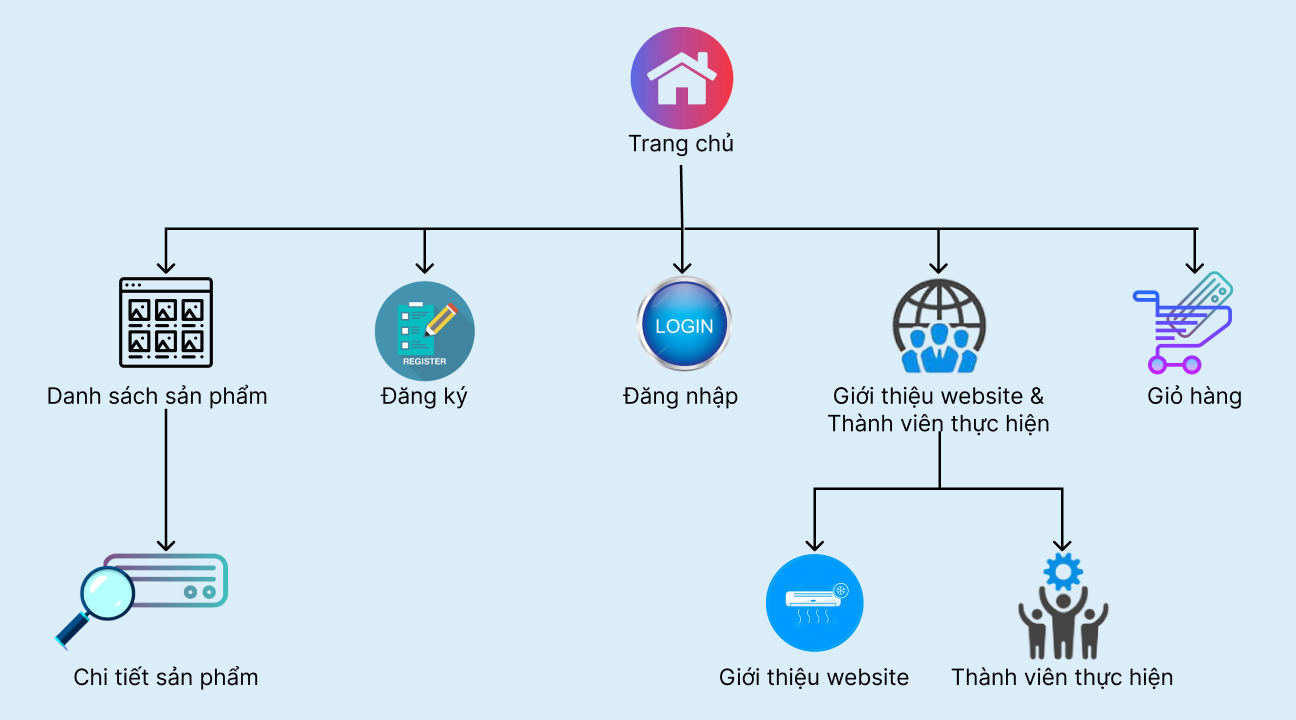
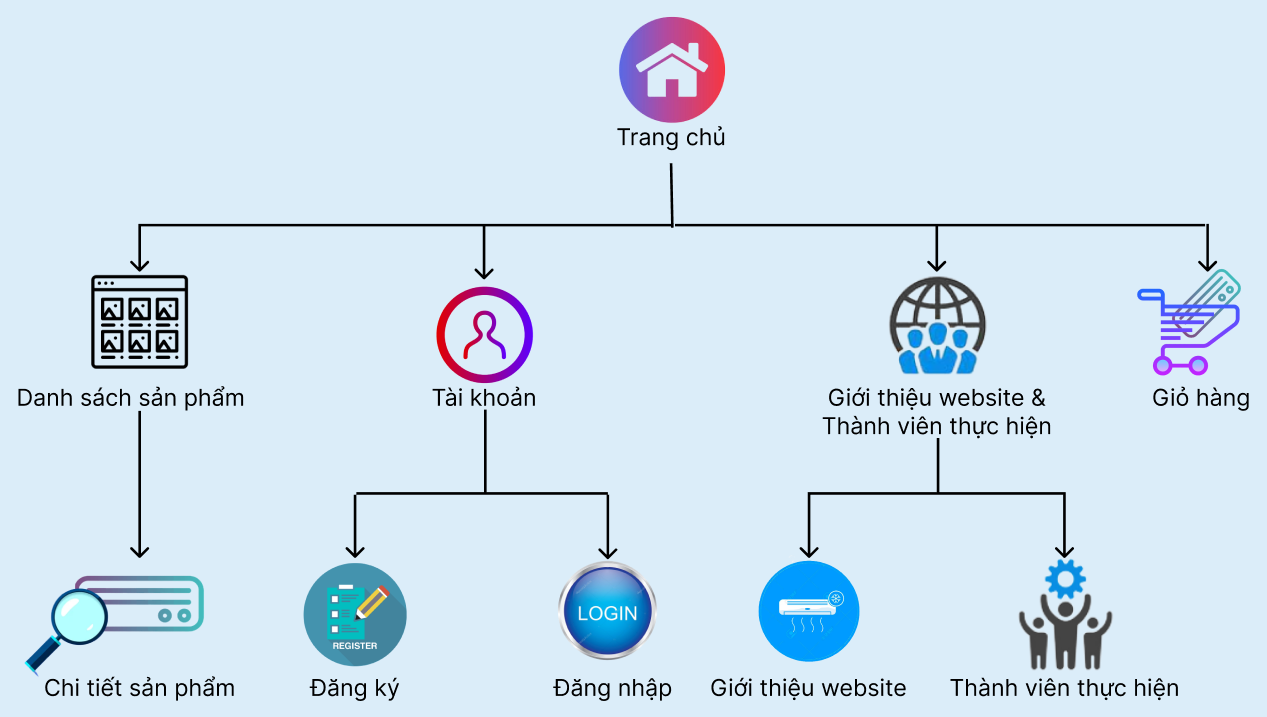
Sửa đổi trang site map

Changed region(s): [[0.0, 0.0, 0.985, 0.9819], [0.2155, 0.675, 0.5233, 0.9819], [0.4309, 0.9512, 0.5233, 0.9819]]

diff --git a/html/sitemap.html b/html/sitemap.html
@@ -94,13 +94,13 @@
             <img src="../img/sitemap.png" alt="" width="90%" usemap="#sitemap">
             <map name="sitemap">
                 <area shape="circle" coords="460, 55, 35" href="trangchu.html" alt="">
-                <area shape="rect" coords="70, 190, 140, 253" href="danhsachsanpham.html" alt="">
-                <area shape="circle" coords="285, 225, 35" href="dangky.html" alt="">
-                <area shape="circle" coords="460, 225, 35" href="dangnhap.html" alt="" id="areaDN">
+                <area shape="rect" coords="60, 190, 130, 253" href="danhsachsanpham.html" alt="">
+                <area shape="circle" coords="245, 415, 38" href="dangky.html" alt="">
+                <area shape="circle" coords="410, 415, 35" href="dangnhap.html" alt="" id="areaDN">
                 <area shape="circle" coords="640, 225, 35" href="gioithieu_website_thanhvien.html" alt="">
-                <area shape="circle" coords="790, 205, 25" href="giohang.html" alt="">
-                <area shape="circle" coords="545, 400, 35" href="gioithieu_website_thanhvien.html#phan-1" alt="">
-                <area shape="circle" coords="707, 405, 30" href="gioithieu_website_thanhvien.html#phan-0" alt="">
+                <area shape="circle" coords="810, 210, 25" href="giohang.html" alt="">
+                <area shape="circle" coords="549, 412, 35" href="gioithieu_website_thanhvien.html#phan-1" alt="">
+                <area shape="circle" coords="719, 420, 30" href="gioithieu_website_thanhvien.html#phan-0" alt="">
             </map>
         </div>
     </main>
